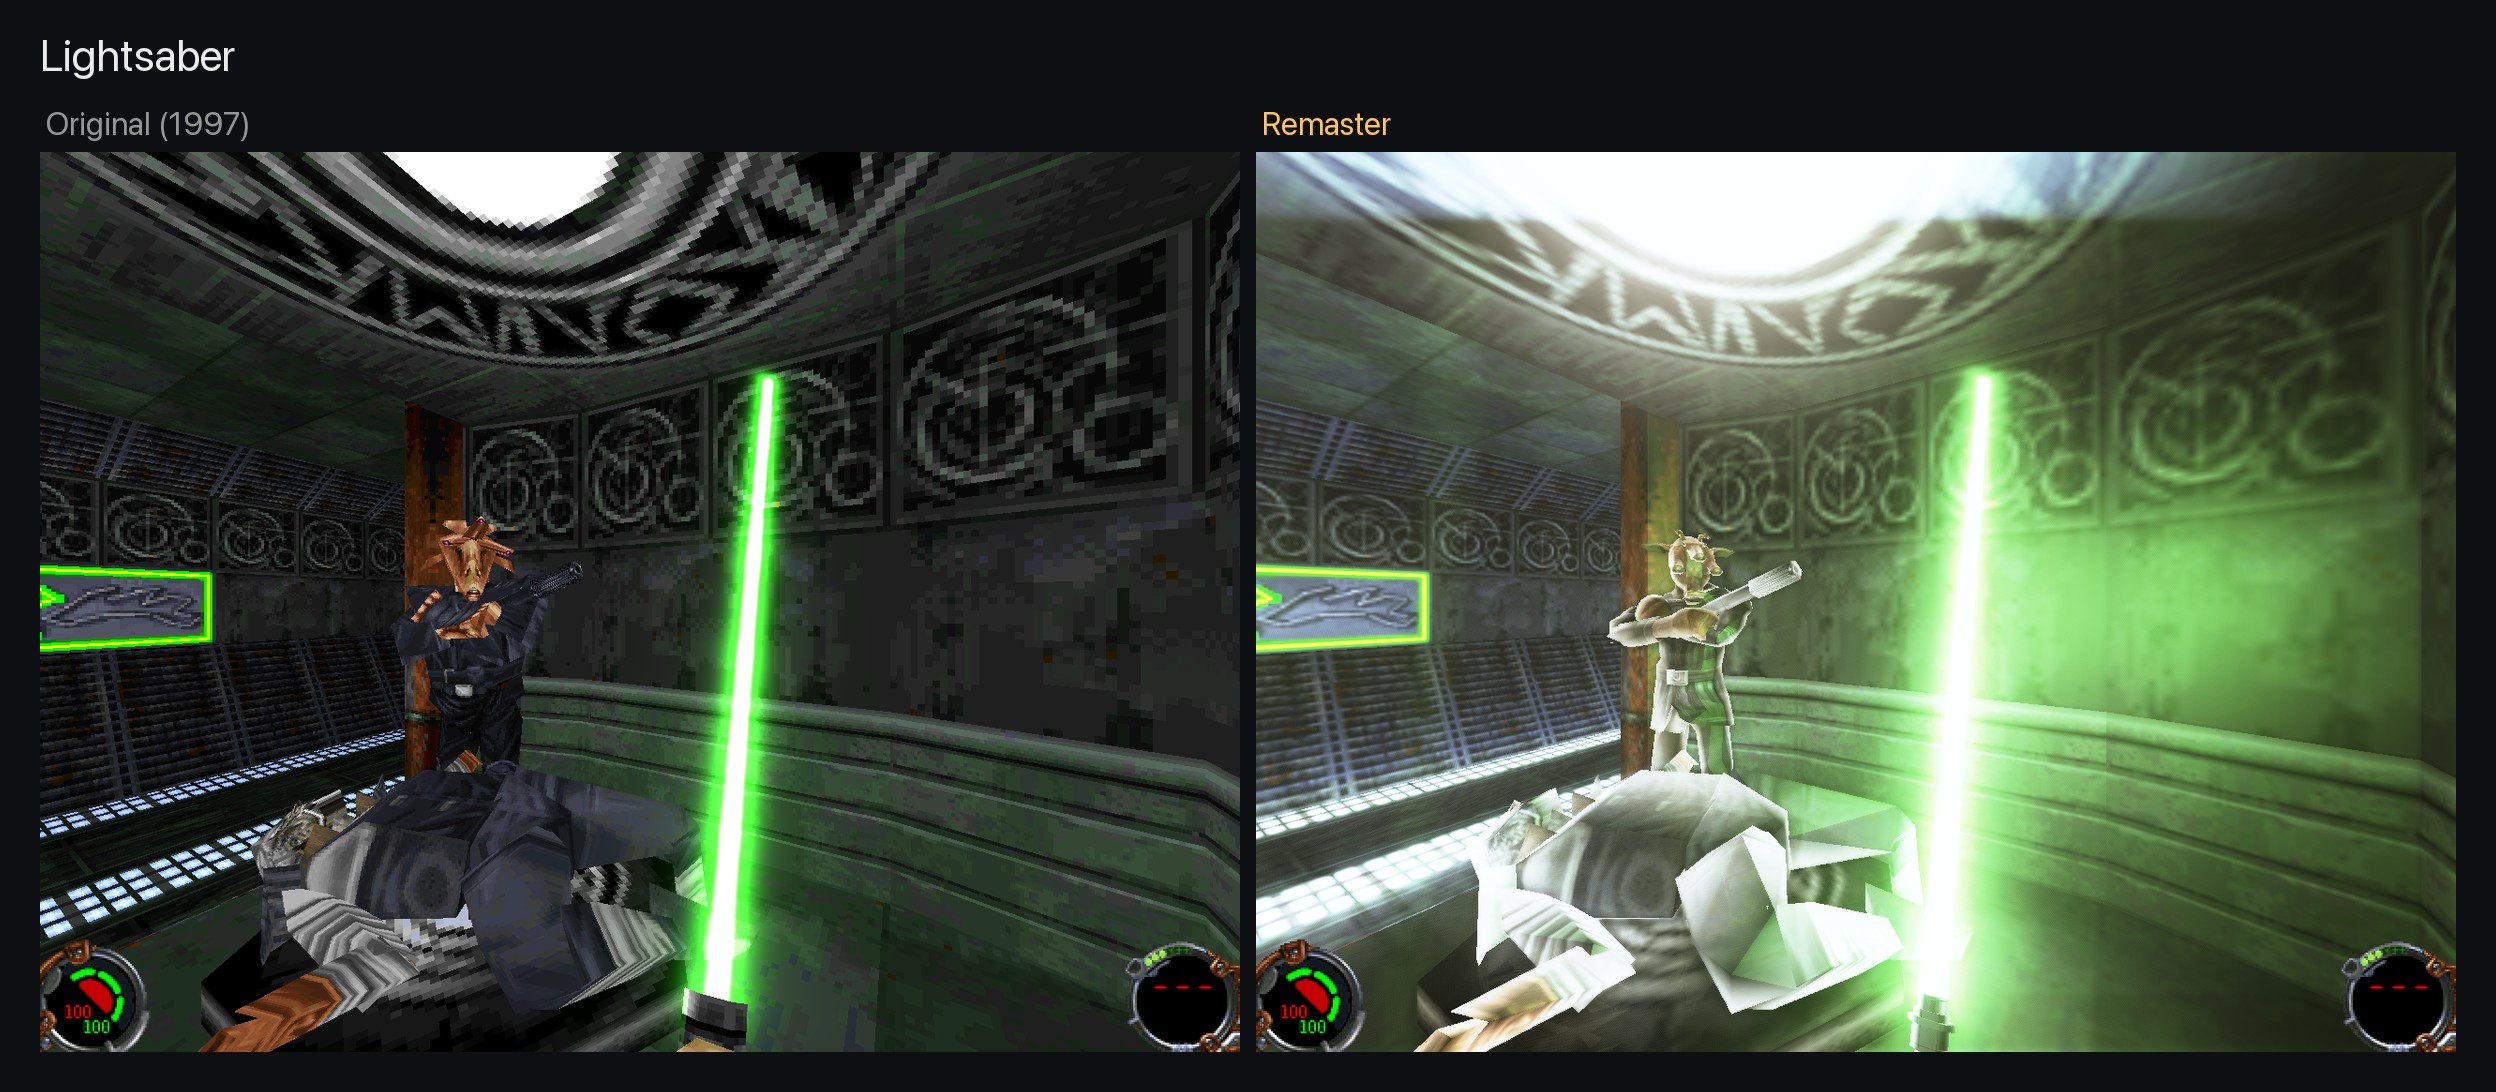
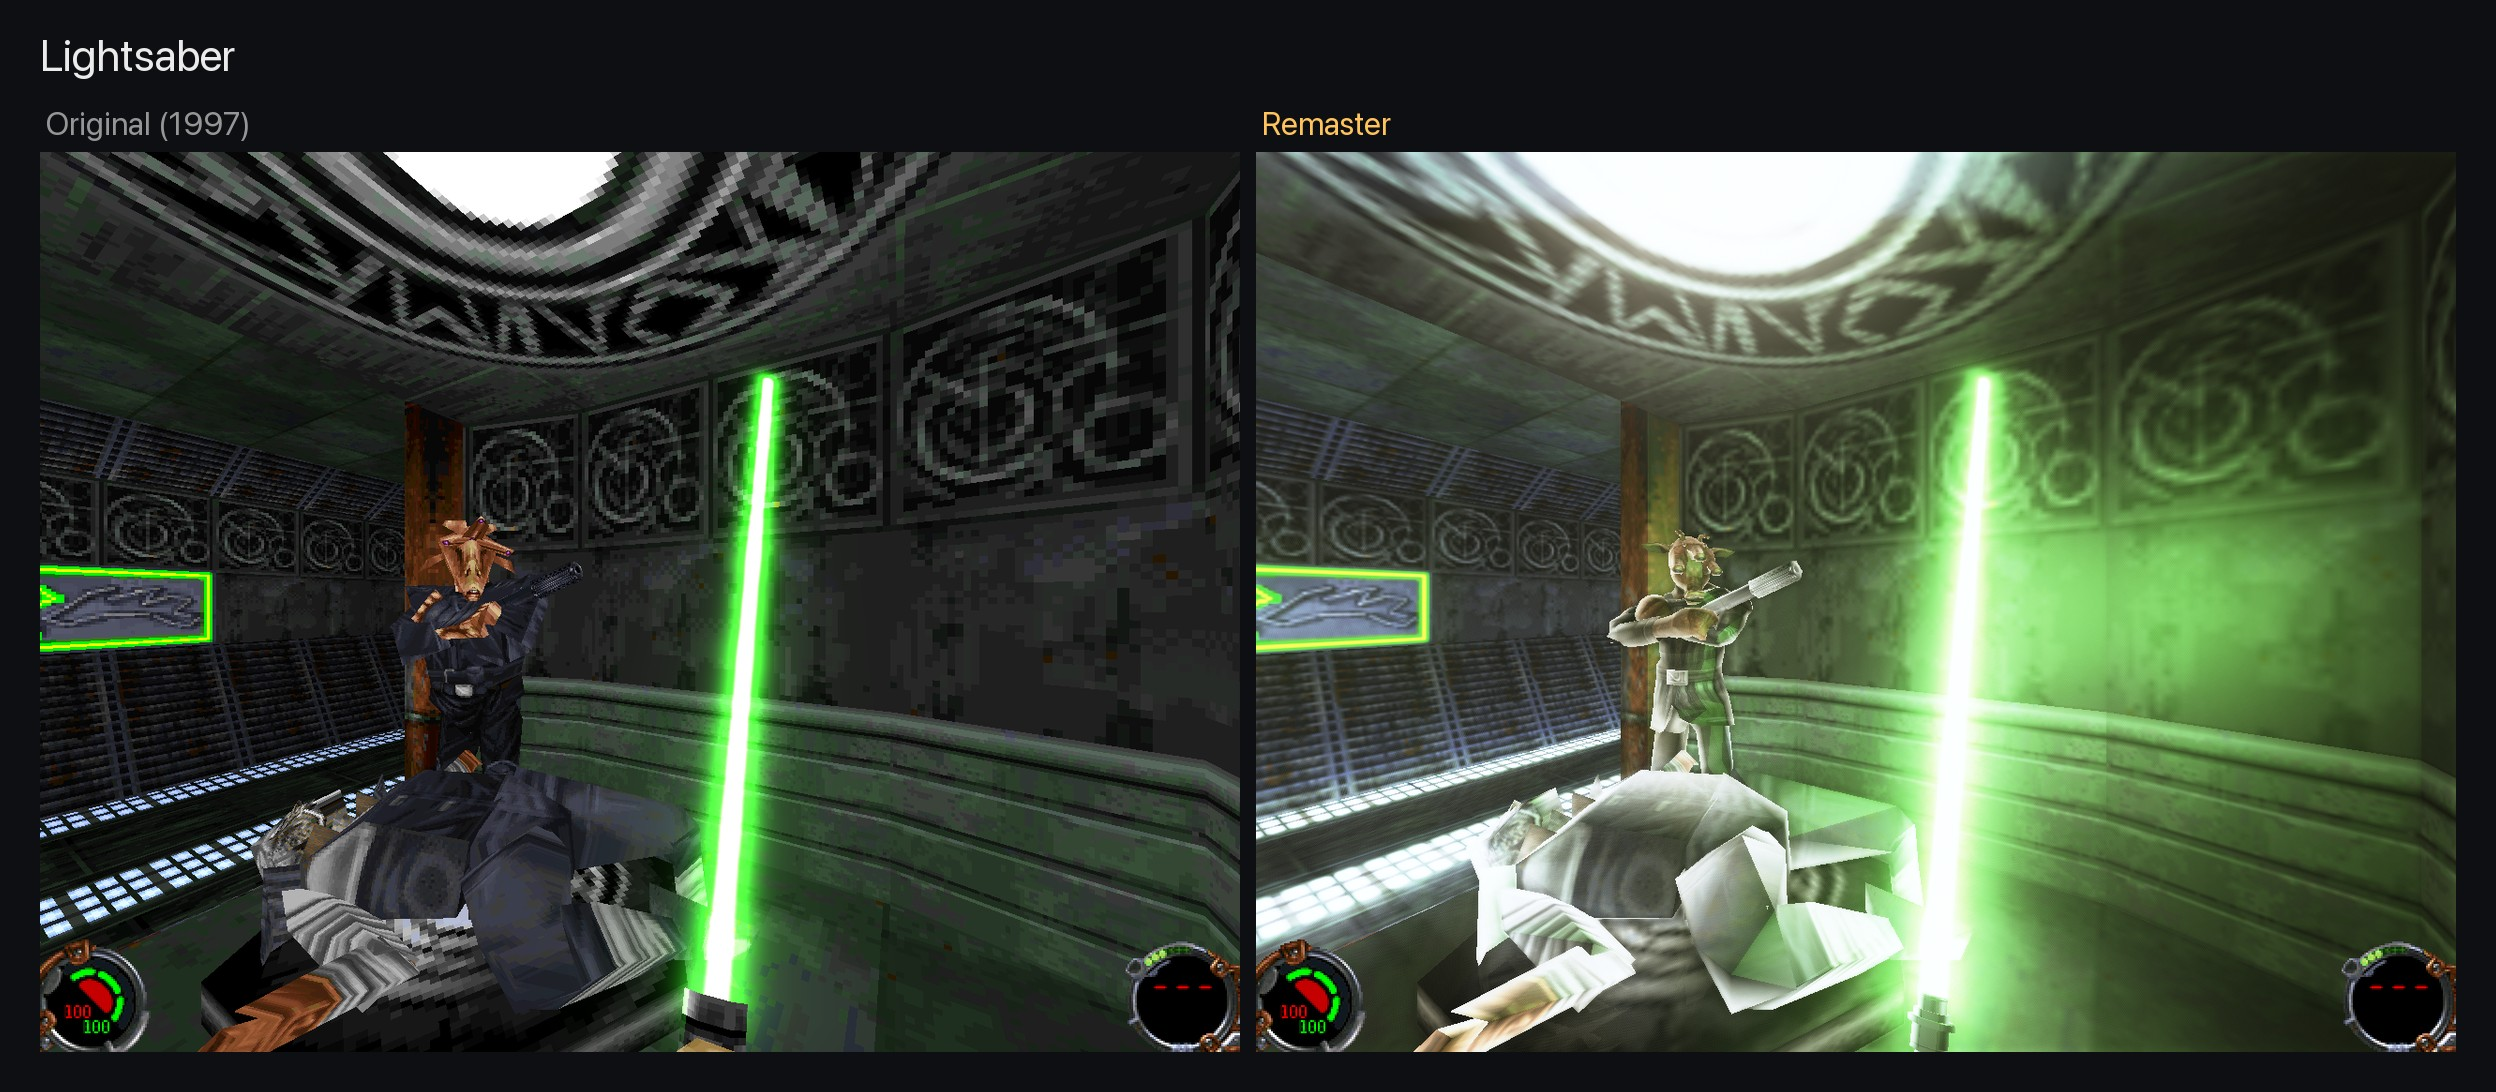
Homepage: comparisons with toned-down flares and rim

diff --git a/docs/DECISIONS.md b/docs/DECISIONS.md
@@ -635,3 +635,5 @@ Dom approved docs/stage2-atmosphere-plan.md. Branch `stage2-atmosphere`.
 **Push window** (Dom, 2026-11-12): no pushing Mon-Fri before 18:00; commits stay local until then.
 
 **Bloom on light fixtures and lens flares** (Dom: "that overhead light needs to bloom and have some flares"). Bloom only read the emissive buffer (glow maps, sabers, sky), so ordinary bright textures like Nar Shaddaa's skylight never bloomed. Now level faces whose texture is near-white (luminance over 0.8) and lit to near full brightness feed bloom (`r_fixtureBloom` 1): skylights, lamps and light panels in every level. Characters are excluded (bright uniforms bloomed in the first try). New lens flare pass (`r_lensFlares`, in the remaster preset; `r_flareStrength` 1) on the bloom source: a cool anamorphic horizontal streak, four tinted ghosts through the screen centre and a faint halo. docs/screenshots/stage2-bloom-flares.jpg. All homepage comparisons recaptured with it.
+- Toned down (Dom): flare strength 0.4 (was 1), fixture bloom 0.6 (was 1).
+- Back-light rim too strong under white skylights (Dom: "makes it look like he's glowing"): it's now a thinner edge (rim^1.5) capped at 0.35 (was 0.6). The hangar's red floor edges are unchanged (that's the floor rim).
